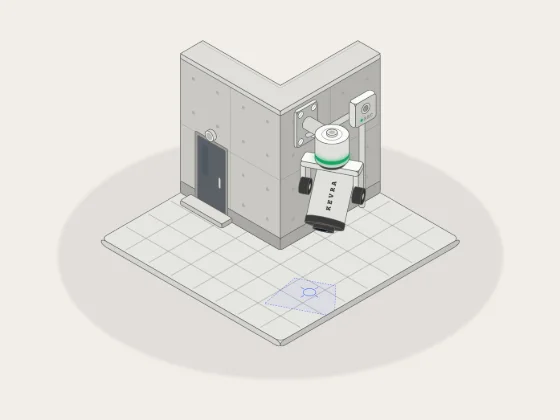
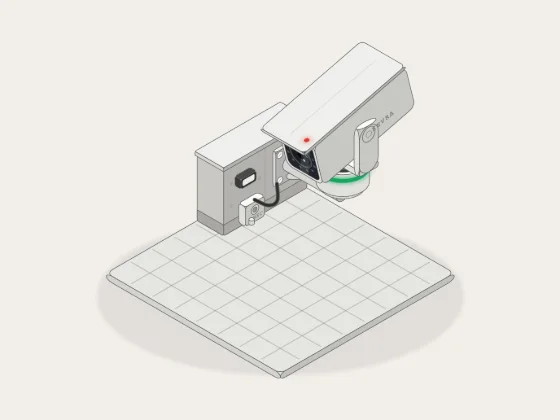
Make the security camera the hero of its miniature
In review the concrete corner and the paving filled the frame, and the
head read as a box on cart wheels or a hanging canister. The camera is
now about twice the size, standing on its bracket so its silhouette
reads against the stage. It has a classic PTZ housing: a long body under
an overhanging sun shield, a dark glass front with the lens and infrared
ring, and pivot caps flush with the yoke arms. One low wall section is
left for context, and a floodlight replaces the door.

Home and privacy face along the wall, which shows the glass and the
shutter. The patrol dips so the field of view sweeps the yard. The brand
is in the house's small type. The floor shadow sits under the slab like
the other miniatures', and the field of view is bolder in the dark. The
head cable runs inside the yoke, so it can't read as a hook. Behavior is
unchanged; tests follow the new home pose.

diff --git a/packages/miniatures/src/figures/security-camera.ts b/packages/miniatures/src/figures/security-camera.ts
@@ -4,42 +4,39 @@
  * (FigureModule). */
 import type { FigureEnv, FigureModule } from '../engine/types'
 
-const css = `:root{color-scheme:light dark;--bg:#f4f3ef;--ink:#323232;--muted:#808080;--top:#fafaf8;--body:#e0e0dc;--side:#c7c7c3;--base:#b6b6b3;--recess:#9d9d99;--glass:#ededeb;--line:#626260;--accent:#3b5bfd;--rule:#d6d6d2;--shadow:#262626;--off:#b9b9b5;--ok:#15a65e;--warn:#e88a00;--fault:#e3372d;--metal:#d6d6d2;--metal-top:#efefec;--metal-side:#b4b4b1;--rubber:#2e2e2d;--dk:#3a3a39;--dk-top:#4a4a48;--dk-side:#2d2d2c;--conc:#c9c8c3;--conc-top:#dfdeda;--conc-side:#b3b2ad;--plinth:#a9a8a4;--roof:#a3a29e;--pave:#d3d3cf;--pave-top:#e6e6e2;--pave-side:#c0c0bc;--door:#5b6066;--pane:#40505a;--lens:#14171b;--lens-in:#22303a;--lens-rim:#30363d;--coat:#4f9fc4;--ir:#d02a5a;--ir-off:#6b5a5e;--warm:#ffb347;--white:#f4f6ff}
-@media(prefers-color-scheme:dark){:root{--bg:#1a1917;--ink:#e8e8e8;--muted:#929292;--rule:#32312e;--accent:#617cff;--shadow:#000;--top:#eaeae8;--body:#bdbdba;--side:#8c8c8b;--base:#999997;--recess:#6e6e6c;--glass:#c8c8c6;--off:#9b9b99;--ok:#36d886;--warn:#ffad2b;--fault:#ff4c41;--metal:#b4b4b2;--metal-top:#e0e0dd;--metal-side:#7e7e7d;--rubber:#252524;--dk:#2f2f2f;--dk-top:#454543;--dk-side:#1d1d1c;--conc:#a9a8a5;--conc-top:#d1d0cc;--conc-side:#7d7d7b;--plinth:#8e8d8a;--roof:#8d8c89;--pave:#b2b2af;--pave-top:#d7d7d3;--pave-side:#878786;--door:#4c5053;--pane:#34424b;--lens:#101215;--lens-in:#1d2830;--lens-rim:#2a2f35;--coat:#5fb0d4;--ir:#ff4d76;--ir-off:#5a4c50;--warm:#ffb04a;--line:#444443}svg{--ink:#282828;--muted:#6b6b6b}}
+const css = `:root{color-scheme:light dark;--bg:#f4f3ef;--ink:#323232;--muted:#808080;--top:#fafaf8;--body:#e0e0dc;--side:#c7c7c3;--base:#b6b6b3;--recess:#9d9d99;--glass:#ededeb;--line:#626260;--accent:#3b5bfd;--rule:#d6d6d2;--shadow:#262626;--off:#b9b9b5;--ok:#15a65e;--warn:#e88a00;--fault:#e3372d;--metal:#d6d6d2;--metal-top:#efefec;--metal-side:#b4b4b1;--rubber:#2e2e2d;--dk:#3a3a39;--dk-top:#4a4a48;--dk-side:#2d2d2c;--conc:#c9c8c3;--conc-top:#dfdeda;--conc-side:#b3b2ad;--plinth:#a9a8a4;--roof:#a3a29e;--pave:#d3d3cf;--pave-top:#e6e6e2;--pave-side:#c0c0bc;--front:#20252b;--lens:#14171b;--lens-in:#22303a;--lens-rim:#30363d;--coat:#4f9fc4;--ir:#d02a5a;--ir-off:#6b5a5e;--warm:#ffb347;--white:#f4f6ff}
+@media(prefers-color-scheme:dark){:root{--bg:#1a1917;--ink:#e8e8e8;--muted:#929292;--rule:#32312e;--accent:#617cff;--shadow:#000;--top:#eaeae8;--body:#bdbdba;--side:#8c8c8b;--base:#999997;--recess:#6e6e6c;--glass:#c8c8c6;--off:#9b9b99;--ok:#36d886;--warn:#ffad2b;--fault:#ff4c41;--metal:#b4b4b2;--metal-top:#e0e0dd;--metal-side:#7e7e7d;--rubber:#252524;--dk:#2f2f2f;--dk-top:#454543;--dk-side:#1d1d1c;--conc:#a9a8a5;--conc-top:#d1d0cc;--conc-side:#7d7d7b;--plinth:#8e8d8a;--roof:#8d8c89;--pave:#b2b2af;--pave-top:#d7d7d3;--pave-side:#878786;--front:#1a1d21;--lens:#101215;--lens-in:#1d2830;--lens-rim:#2a2f35;--coat:#5fb0d4;--ir:#ff4d76;--ir-off:#5a4c50;--warm:#ffb04a;--line:#444443}svg{--ink:#282828;--muted:#6b6b6b}}
 .night{--lens-in:#2c1a33;--coat:#c45bd8}
 .face{fill:var(--body);stroke:var(--line);stroke-width:1;vector-effect:non-scaling-stroke;stroke-linejoin:round}.top{fill:var(--top)}.side{fill:var(--side,var(--body))}.base{fill:var(--base)}.recess{fill:var(--recess)}.glass{fill:var(--glass)}.detail{fill:none;stroke:var(--line);stroke-width:.65;vector-effect:non-scaling-stroke;stroke-linecap:round;stroke-linejoin:round}.etch{fill:var(--muted);font:3.2px ui-monospace,monospace;letter-spacing:.45px;stroke:none}.label{fill:var(--ink);font:4px ui-monospace,monospace;letter-spacing:.6px;stroke:none}.brand{font-size:6px;letter-spacing:1.7px;font-weight:600}.brandh{font-size:3px;letter-spacing:.85px;font-weight:600}.micro{font-size:2.6px;letter-spacing:.2px}.center{text-anchor:middle}.shadow{fill:var(--shadow);opacity:.075;filter:url(#soft)}
-.metal{fill:var(--metal)}.top.metal{fill:var(--metal-top)}.side.metal{fill:var(--metal-side)}.dk{fill:var(--dk)}.top.dk{fill:var(--dk-top)}.side.dk{fill:var(--dk-side)}.rubber{fill:var(--rubber)}.conc{fill:var(--conc)}.top.conc{fill:var(--conc-top)}.side.conc{fill:var(--conc-side)}.pave{fill:var(--pave)}.top.pave{fill:var(--pave-top)}.side.pave{fill:var(--pave-side)}.plinth{fill:var(--plinth)}.roof{fill:var(--roof)}.door{fill:var(--door)}.pane{fill:var(--pane);fill-opacity:.5}
-.joint{fill:none;stroke:var(--line);stroke-width:.5;opacity:.3}.seam{fill:none;stroke:var(--line);stroke-width:.5;vector-effect:non-scaling-stroke;opacity:.55}.tie{fill:var(--recess);stroke:none;opacity:.6}
+.metal{fill:var(--metal)}.top.metal{fill:var(--metal-top)}.side.metal{fill:var(--metal-side)}.dk{fill:var(--dk)}.top.dk{fill:var(--dk-top)}.side.dk{fill:var(--dk-side)}.rubber{fill:var(--rubber)}.conc{fill:var(--conc)}.top.conc{fill:var(--conc-top)}.side.conc{fill:var(--conc-side)}.pave{fill:var(--pave)}.top.pave{fill:var(--pave-top)}.side.pave{fill:var(--pave-side)}.plinth{fill:var(--plinth)}
+.crease{fill:none;stroke:var(--line);stroke-width:.5;vector-effect:non-scaling-stroke;opacity:.45}.joint{fill:none;stroke:var(--line);stroke-width:.5;opacity:.3}.seam{fill:none;stroke:var(--line);stroke-width:.5;vector-effect:non-scaling-stroke;opacity:.55}.tie{fill:var(--recess);stroke:none;opacity:.6}
 .su,.sr,.sm{fill:none;stroke-linecap:round;stroke-linejoin:round}.su{stroke:var(--line)}.sr{stroke:var(--rubber)}.sm{stroke:var(--metal)}
 .irled{fill:var(--ir-off);stroke:none}.night .irled{fill:var(--ir);filter:url(#glow)}.priv .irled{fill:var(--ir-off);filter:none}.irhalo{fill:var(--ir);opacity:0;filter:url(#bloom)}.night .irhalo{opacity:.55}.priv .irhalo{opacity:0}
 .lensg{fill:url(#glassG);stroke:none;opacity:var(--cut,1)}.coat{fill:none;stroke:var(--coat);stroke-width:.9;stroke-linecap:round;opacity:.75}.spec{fill:#fff;opacity:.75;stroke:none}.iris{fill:#050607;stroke:none}.shutter{fill:var(--top);stroke:var(--line);stroke-width:.6;vector-effect:non-scaling-stroke}.grip{fill:none;stroke:var(--recess);stroke-width:.7;stroke-linecap:round}
-.fov{fill:var(--accent);fill-opacity:.07;stroke:var(--accent);stroke-width:.8;stroke-dasharray:2.4 2.2;stroke-linejoin:round;vector-effect:non-scaling-stroke;opacity:.85}.night .fov{fill:var(--ir);fill-opacity:.05;stroke:var(--ir)}.priv .fov,.priv .aim{opacity:0}.irpool{fill:var(--ir);opacity:0;filter:url(#bloom)}.night .irpool{opacity:.22}.priv .irpool{opacity:0}
+.fov{fill:var(--accent);fill-opacity:.07;stroke:var(--accent);stroke-width:1;stroke-dasharray:2.6 2.2;stroke-linejoin:round;vector-effect:non-scaling-stroke;opacity:.9}@media(prefers-color-scheme:dark){.fov{fill-opacity:.12;stroke-width:1.5;opacity:1}.aim{stroke-width:1.2}}.night .fov{fill:var(--ir);fill-opacity:.05;stroke:var(--ir)}.priv .fov,.priv .aim{opacity:0}.irpool{fill:var(--ir);opacity:0;filter:url(#bloom)}.night .irpool{opacity:.22}.priv .irpool{opacity:0}
 .aim{fill:none;stroke:var(--accent);stroke-width:.8;stroke-linecap:round;vector-effect:non-scaling-stroke}.night .aim{stroke:var(--ir)}.det{fill:none;stroke:var(--warn);stroke-width:1.2;stroke-linecap:round;vector-effect:non-scaling-stroke;opacity:0}
 .lamp{fill:var(--off);stroke:none}.lamp.g{fill:var(--ok)}.lamp.a{fill:var(--warn)}.lamp.r{fill:var(--fault)}.lamp.b{fill:var(--accent)}.lamp.w{fill:var(--warm)}.lamp.i{fill:var(--ir)}.lamp.g,.lamp.a,.lamp.r,.lamp.b,.lamp.w,.lamp.i{filter:url(#glow)}.halo{opacity:0;filter:url(#bloom)}.halo.w{fill:var(--warm);opacity:.6}.halo.r{fill:var(--fault);opacity:.45}
 .sring{fill:var(--off);stroke:none}.sring.g{fill:var(--ok)}.sring.b{fill:var(--accent)}.sring.a{fill:var(--warn)}.sring.w{fill:var(--white)}.sring.g,.sring.b,.sring.a,.sring.w{filter:url(#glow)}
-.pool{opacity:0}.wash{opacity:0}
+.pool{opacity:0}.flood{fill:var(--glass);stroke:var(--line);stroke-width:.5;vector-effect:non-scaling-stroke}.flood.w{fill:var(--warm);filter:url(#glow)}.glassfront{fill:var(--front);stroke:var(--line);stroke-width:.6;vector-effect:non-scaling-stroke}.glint{fill:#fff;opacity:.12;stroke:none}
 .control{cursor:pointer;outline:none}.hit{fill:transparent;stroke:none}.focus-ring{fill:none;stroke:var(--accent);stroke-width:1.3;vector-effect:non-scaling-stroke;opacity:0;pointer-events:none}.control:focus-visible .focus-ring{opacity:1}
 /* dark v2: night studio */:root{--stage-ink:var(--ink);--stage-muted:var(--muted)}.stage-contact,.stage-pool{display:none}@media(prefers-color-scheme:dark){.stage-floor,.stage-pool{fill:url(#stage-floor-fill);stroke:none;opacity:1;filter:none;transform:scale(1.5);transform-box:fill-box;transform-origin:center}.stage-pool{display:inline}.stage-contact{display:inline;fill:url(#stage-contact-fill);stroke:none;opacity:1;filter:none;transform:scale(.9);transform-box:fill-box;transform-origin:center}}`
 
 const defs = `<radialGradient id="glassG" cx=".4" cy=".36" r=".72"><stop offset="0" style="stop-color:var(--lens-in)"/><stop offset=".7" style="stop-color:var(--lens)"/><stop offset="1" style="stop-color:var(--lens-rim)"/></radialGradient>
 <radialGradient id="warmG"><stop offset="0" style="stop-color:var(--warm);stop-opacity:.6"/><stop offset="1" style="stop-color:var(--warm);stop-opacity:0"/></radialGradient>
-<linearGradient id="washG" x1="0" y1="0" x2="0" y2="1"><stop offset="0" style="stop-color:var(--warm);stop-opacity:.45"/><stop offset="1" style="stop-color:var(--warm);stop-opacity:0"/></linearGradient>
-<clipPath id="lensClip"><circle r="8.2"/></clipPath>`
+<clipPath id="frontClip"><rect x="1.2" y="1.2" width="16.6" height="18.6" rx="2.6"/></clipPath>`
 
 function draw(env: FigureEnv): void {
 const{document,window,matchMedia,requestAnimationFrame,cancelAnimationFrame,setTimeout,clearTimeout,setInterval,clearInterval,addEventListener,removeEventListener,kit}=env;
-/* KEVRA PT–4 on a building corner. World: x lower-right, y lower-left, z up; pan from the corner's diagonal (+x+y), tilt from the horizon.
+/* KEVRA PT–4 on a wall section. World: x lower-right, y lower-left, z up; pan from the diagonal (+x+y), tilt from the horizon.
 Part                        x      y      z      w      d      h
-yard slab                   0      0     −3    104    104      3   paving joints; the field of view lands on it
-walls                       0      0      0     58     58     70   an L, 12 thick: panels, tie holes, plinth, coping
-door + step                10     58      0     16      –     34   vision panel, handle; security lamp above at z 38.5
-wall plate                 58     38     48    1.6     12     18   on the right face, four screws
-arm + brace            r 2.8  59.6 → 74 at y 44, z 58             brace from the plate's foot
-conduit + junction box     58      6     43    3.6     12     12   privacy key switch, REC lamp; drip loop from the plate
-pan unit               r 7     74     44   47.4      –      –     12   status ring, day/night sensor on top
-yoke                    crossbar 25 × 7 × 2.6 under the pan unit, arms to the tilt axis at 74 44 31, knobs
-head                    r 8, −11 … +15 along the look axis; bezel, IR ring, REC light, lens barrel, privacy shutter
-Painter order: yard, field of view, walls, door, plate, conduit and box, arm; far yoke arm, head, near arm, crossbar, pan unit; controls. */
+yard slab                   0      0     −3     92     92      3   paving joints; the field of view lands on it
+wall section                0      0      0     14     44     30   panel seam, tie holes, plinth, coping; floodlight at y 30
+wall plate                 14      4     10    1.6     14     16   four screws; drip loop to the junction box at y 26
+arm + brace            r 3.4  15.6 → 44 at y 11, z 18             day/night sensor on top at x 23
+pan unit               r 10    44     11   23.6      –      –     10   on a mounting disc; status ring
+yoke                    crossbar 27.6 × 10 × 2.8 above the pan unit, arms up to the tilt axis at 44 11 52, flush pivot caps
+housing                 50 × 19 × 21 along the look axis; dark glass front with lens, IR ring and shutter; sun shield 55 × 23 on standoffs
+Painter order: yard, field of view, wall, floodlight, plate, junction box, arm, pan unit; crossbar, far arm, housing, sun shield, near arm; controls. */
 const svg=document.getElementById('machine');let root=document.getElementById('drawing');
 const{NS,C,S,OX,OY,P,matrix,set,TOP,FRONT,SIDE,el,group,rect,circle,line,text,poly,wire,box,ellipse,cylinder,slits,screw,frame}=kit(()=>root);
 // Family helpers: vectors, oriented planes, round parts on any axis, oriented boxes, outlined strokes, lamps and controls.
@@ -59,57 +56,52 @@ function lamp(g,x,y,r=1){const n=circle(g,x,y,r,'lamp');n._c='';return n;}
 function lit(n,c,base='lamp'){if(n&&n._c!==c){n._c=c;set(n,'class',base+(c?' '+c:''));}}
 function bind(g,fn){g.addEventListener('click',fn);g.addEventListener('keydown',e=>{if(e.key==='Enter'||e.key===' '){e.preventDefault();e.stopPropagation();if(!e.repeat)fn();}});}
 function button(g,attrs){for(const[k,v]of Object.entries({class:'control',role:'button',tabindex:'0',...attrs}))set(g,k,v);return g;}
-// Ground: the yard's paving, then the layer the field of view, the IR flood and the lamp's pool draw on, clipped to it.
-const sh=P(54,54,-3);el('ellipse',{cx:f2(sh[0]),cy:f2(sh[1]+4),rx:112,ry:62,class:'shadow stage-floor'});el('ellipse',{cx:f2(sh[0]),cy:f2(sh[1]+4),rx:112,ry:62,class:'stage-contact'});
-box(0,0,-3,104,104,3,3,'pave');const yt=group(TOP(0,0,.02));for(let k=13;k<104;k+=13){line(yt,k,1.5,k,102.5,'joint');line(yt,1.5,k,102.5,k,'joint');}
-el('path',{d:poly([[0,0,0],[104,0,0],[104,104,0],[0,104,0]],true)},el('clipPath',{id:'yard'},svg.querySelector('defs')));
-const fovG=el('g',{'clip-path':'url(#yard)'}),pool=el('ellipse',{cx:18.5,cy:68,rx:15,ry:9.5,fill:'url(#warmG)',class:'pool'},group(TOP(0,0,.04),fovG)),irPool=el('path',{class:'irpool'},fovG),fov=el('path',{class:'fov'},fovG);
-const aimG=el('g',{},fovG);circle(aimG,0,0,2.6,'aim');for(const[a,b,c,d]of[[-5,0,-3.4,0],[3.4,0,5,0],[0,-5,0,-3.4],[0,3.4,0,5]])line(aimG,a,b,c,d,'aim');
+// Ground: the yard's paving and the layer the field of view, the IR flood and the floodlight's pool draw on, clipped to it.
+const sh=P(46,46,-3);el('ellipse',{cx:f2(sh[0]),cy:f2(sh[1]+8),rx:84,ry:36,class:'shadow stage-floor'});el('ellipse',{cx:f2(sh[0]),cy:f2(sh[1]+8),rx:84,ry:36,class:'stage-contact'});
+box(0,0,-3,92,92,3,3,'pave');const yt=group(TOP(0,0,.02));for(let k=11.5;k<92;k+=11.5){line(yt,k,1.5,k,90.5,'joint');line(yt,1.5,k,90.5,k,'joint');}
+el('path',{d:poly([[0,0,0],[92,0,0],[92,92,0],[0,92,0]],true)},el('clipPath',{id:'yard'},svg.querySelector('defs')));
+const fovG=el('g',{'clip-path':'url(#yard)'}),pool=el('ellipse',{cx:30,cy:34,rx:15,ry:10,fill:'url(#warmG)',class:'pool'},group(TOP(0,0,.04),fovG)),irPool=el('path',{class:'irpool'},fovG),fov=el('path',{class:'fov'},fovG);
+const aimG=el('g',{},fovG);circle(aimG,0,0,2.8,'aim');for(const[a,b,c,d]of[[-5.4,0,-3.6,0],[3.6,0,5.4,0],[0,-5.4,0,-3.6],[0,3.6,0,5.4]])line(aimG,a,b,c,d,'aim');
 const detG=el('g',{class:'det'},aimG);for(const[sx,sy]of[[-1,-1],[1,-1],[1,1],[-1,1]])el('path',{d:`M${sx*9},${sy*5.5}L${sx*9},${sy*9}L${sx*5.5},${sy*9}`},detG);
-// Building corner: two concrete walls meeting at the corner, panels with tie holes, plinth and coping; the door, its step and the security lamp.
-const fw=group(FRONT(0,58,70)),rw=group(SIDE(58,58,70));for(const g of[rw,fw])rect(g,0,0,58,70,1.2,'face conc'+(g===rw?' side':''));
-el('path',{d:poly([[0,45,70],[45,45,70],[45,0,70],[58,0,70],[58,58,70],[0,58,70]],true),class:'face top conc'});
-el('path',{d:poly([[0,46.5,70.05],[46.5,46.5,70.05],[46.5,0,70.05]]),class:'seam'});
-for(const[g,door]of[[fw,1],[rw,0]]){rect(g,0,64,58,6,1,'face plinth');rect(g,0,0,58,2.4,.8,'face metal');line(g,0,35,58,35,'seam');line(g,29,2.4,29,64,'seam');
-for(const u of[7.5,21.5,36.5,50.5])for(const v of[9,26,43,58])if(!(door&&u>6&&u<29&&v>30))circle(g,u,v,.85,'tie');}
-rect(fw,8.5,34.5,19,35.5,.8,'face recess');rect(fw,10,36,16,34,.5,'face door');rect(fw,12.6,39,3.2,15,.6,'pane');rect(fw,22,51,1.4,5.6,.7,'face metal');line(fw,10,66.4,26,66.4,'seam');
-const wash=el('path',{d:'M16.5,34L20.5,34L27.5,69.5L9.5,69.5Z',fill:'url(#washG)',class:'wash'},fw);
-box(6,58,0,24,6,2.2,.8,'conc');const lampC=cylinder(18.5,58,38.5,2.4,1.8,'y','metal');const doorLamp=lamp(lampC.face,0,0,1.7),dq=P(18.5,59.8,38.5),doorHalo=el('circle',{cx:f2(dq[0]),cy:f2(dq[1]),r:8,class:'halo'});
-// Right face: the camera's wall plate, a drip loop into the conduit, the junction box with the privacy key switch.
-box(58,38,48,1.6,12,18,1.4,'metal');const mp=group(SIDE(59.6,50,66));for(const[u,v]of[[2.2,2.2],[9.8,2.2],[2.2,15.8],[9.8,15.8]])screw(mp,u,v);
-tube(root,[59.4,18,49],[59.4,30.5,49],1.2,'metal');tube(root,[59.4,12,0],[59.4,12,44],1.2,'metal');
-box(58,6,43,3.6,12,12,1.4,'');const jb=group(SIDE(61.6,18,55));circle(jb,6,4.8,2.4,'face metal');circle(jb,6,4.8,1.3,'face recess');line(jb,6,3.9,6,5.7);const boxLamp=lamp(jb,3.6,9.6,.65);text(jb,5,10.5,'REC','etch micro');
-sk(smooth([[59.6,39,50.5],[61.6,37,46.5],[61.8,33.4,46],[60.2,30.5,49]]),1.2,'sr');
-tube(root,[59.6,44,51.6],[66.5,44,57.4],.85,'metal');tube(root,[59.6,44,58],[74,44,58],2.8,'metal');
-// The moving head, rebuilt in painter order as it pans and tilts; the pan unit above it is static.
-const L={far:el('g',{}),cab0:el('g',{}),head:el('g',{}),cab1:el('g',{}),near:el('g',{}),yoke:el('g',{})};
-const panG=into(el('g',{}));cylinder(74,44,45.6,5.8,1.8,'z','dk');const pu=cylinder(74,44,47.4,7,12,'z','');circle(pu.face,0,0,4.2,'detail');const ring=band(panG,[74,44,49],[74,44,50.6],7.1,'sring');set(ring,'class','sring');ring._c='';
-const sens=cylinder(74,44,59.4,2.2,1,'z','glass'),photo=lamp(sens.face,0,0,1.25);into(draw);
-const PIV=[74,44],TZ=31,HOME=45,Z=[1,2,4],LB=[1.8,4,7.4],REST=[18,-46],P0=4.487;
+// Wall: one low concrete section with tie holes, plinth and coping; a floodlight near its end.
+box(0,0,0,14,44,30,1.2,'conc');const rw=group(SIDE(14,44,30)),ew=group(FRONT(0,44,30));for(const[g,w]of[[rw,44],[ew,14]])rect(g,0,25,w,5,.8,'face plinth');
+line(rw,22,0,22,25,'seam');for(const[u,v]of[[4,8],[4,18],[19,13],[42,8],[42,18]])circle(rw,u,v,.85,'tie');box(-.6,-.6,30,15.2,45.2,1.8,.6,'metal');
+box(14,30,20,3.2,8,4.4,1,'dk');const flood=el('rect',{x:.8,y:.8,width:6.4,height:2.8,rx:.8,class:'flood'},group(SIDE(17.2,38,24.4)));flood._c='';const fq=P(17.4,34,22.2),floodHalo=el('circle',{cx:f2(fq[0]),cy:f2(fq[1]),r:9,class:'halo'});
+// Bracket: the wall plate, a drip loop down to the junction box with the privacy key switch, the arm and its brace, the day/night sensor.
+box(14,4,10,1.6,14,16,1.4,'metal');const mp=group(SIDE(15.6,18,26));for(const[u,v]of[[2.2,2.2],[11.8,2.2],[2.2,13.8],[11.8,13.8]])screw(mp,u,v);
+box(14,26,2,3.6,10,9,1.3,'');const jb=group(SIDE(17.6,36,11));circle(jb,5,3.6,2,'face metal');circle(jb,5,3.6,1.1,'face recess');line(jb,5,2.9,5,4.3);const boxLamp=lamp(jb,2.6,7.1,.55);text(jb,4,7.8,'REC','etch micro');tube(root,[15.8,31,0],[15.8,31,2],1,'metal');
+sk(smooth([[15.6,17.4,11.4],[18.4,20,6.4],[18.2,24.6,6.4],[16.4,30,10.8]]),1.1,'sr');
+tube(root,[15.6,11,11.6],[26,11,16.6],1.1,'metal');tube(root,[15.6,11,18],[44,11,18],3.4,'metal');const sens=cylinder(23,11,21.3,2.1,1.1,'z','glass'),photo=lamp(sens.face,0,0,1.2);
+// Pan unit with its status ring on a mounting disc; above it the yoke, the housing and its sun shield, rebuilt in painter order as it moves.
+cylinder(44,11,21.4,8.4,2.2,'z','metal');const pu=cylinder(44,11,23.6,10,10,'z','');const ring=band(root,[44,11,29.8],[44,11,31.6],10.1,'sring');set(ring,'class','sring');ring._c='';cylinder(44,11,33.6,8.4,1.2,'z','dk');
+const L={yoke:el('g',{}),far:el('g',{}),head:el('g',{}),hood:el('g',{}),near:el('g',{})};
+const PIV=[44,11],TZ=52,HOME=45,Z=[1,2,4],LB=[0,1,2.6],REST=[45,-14],P0=5.27,TILT=[-38,20];
 let[pan,tilt]=REST,vp=0,vt=0,[tp,tt]=REST,zi=0,lb=LB[0],zNow=1,shut=0,iris=1.4,night=false,privacy=false,events=0;
 let ptr=null,lostUntil=0,manual=null,manualAt=-1e9,lastMove=null,speed=0,patrolT=P0,twitchT=-1e9,motionT=-1e9,snapT=-1e9,cutT=-1e9,lampT=-1e9,flash='',flashT=0,last=0,lastUI=-1,drawn='',mode='PATROL',rec=null,cutV='1';
 function pose(){const p=(HOME+pan)*RAD,t=tilt*RAD,g=[Math.cos(p),Math.sin(p),0],s=[-Math.sin(p),Math.cos(p),0],f=[Math.cos(t)*g[0],Math.cos(t)*g[1],Math.sin(t)],u=[-Math.sin(t)*g[0],-Math.sin(t)*g[1],Math.cos(t)];return{g,s,f,u,T:[PIV[0],PIV[1],TZ]};}
-function assemble(){const{g,s,f,u,T}=pose(),F=add(T,mul(f,15)),B=add(T,mul(f,-11)),near=dot(s,VIEW)>=0?1:-1,front=dot(f,VIEW)>0;for(const k in L)L[k].replaceChildren();
-for(const side of[-near,near]){const gp=side===near?L.near:L.far;obox(gp,add(add(T,mul(s,side*11.4)),[0,0,6.4]),g,s,[0,0,1],7,2.2,16.4,'',1.1);const k=tube(gp,add(T,mul(s,side*9.6)),add(T,mul(s,side*13.4)),3.4,'dk');circle(k,0,0,1.3,'face metal');}
-obox(L.yoke,[T[0],T[1],TZ+13.35],s,g,[0,0,1],25,7,2.6,'',1.2);
-const barrel=()=>{const c=tube(L.head,F,add(F,mul(f,lb)),4.4,'dk');if(c.front){circle(c,0,0,3.7,'lensg');el('path',{d:'M-2.5,-1.5A2.9,2.9 0 0 1 .6,-2.9',class:'coat'},c);circle(c,0,0,iris,'iris');circle(c,-1.15,-1.35,.5,'spec');circle(c,0,0,4.4,'detail');}};
-if(!front)barrel();
-const c=tube(L.head,B,F,8,'');if(c.front){circle(c,0,0,8,'face dk');circle(c,0,0,6.9,'detail');circle(c,0,0,7.6,'irhalo');for(let i=0;i<12;i++){const a=(i*30+15)*RAD;circle(c,5.75*Math.cos(a),5.75*Math.sin(a),.55,'irled');}const ru=[dot(u,c.U),dot(u,c.V)];rec=lamp(c,ru[0]*7.35-ru[1]*2.2,ru[1]*7.35+ru[0]*2.2,.5);}
-else{circle(c,0,0,5,'detail');const q=[-dot(u,c.U)*3.4,-dot(u,c.V)*3.4];circle(c,q[0],q[1],1.6,'face rubber');circle(c,q[0],q[1],.65,'face dk');}
-band(L.head,add(F,mul(f,-2.6)),F,8.25,'dk');band(L.head,add(B,mul(f,2.2)),add(B,mul(f,2.9)),8.1,'dk');
-const vs=unit(sub(VIEW,mul(f,dot(VIEW,f)))),tw=P(...f)[0]>=0?f:mul(f,-1);let w2=unit(cross(tw,vs));if(P(...w2)[1]<0)w2=mul(w2,-1);const tg=group(plane(add(add(T,mul(vs,8.05)),add(mul(f,2.8),mul(tw,-6.6))),tw,w2),L.head);text(tg,0,1,'KEVRA','label brandh');rec=null;
-if(front){barrel();const sp=group(plane(add(F,mul(f,lb+.35)),c.U,c.V),L.head),cl=el('g',{'clip-path':'url(#lensClip)'},sp),x0=-8.4-(1-shut)*16.8;rect(cl,x0,-8.4,16.8,16.8,1.4,'shutter');line(cl,x0+14.6,-5.6,x0+14.6,5.6,'grip');line(cl,x0+13,-5.6,x0+13,5.6,'grip');}
-const back=add(B,mul(u,-3)),cab=sk(smooth([back,add(back,add(mul(f,-4.5),[0,0,-1.2])),add(add(T,mul(g,-6.5)),[0,0,7]),[T[0]-g[0]*3.5,T[1]-g[1]*3.5,TZ+12]]),1.2,'sr',front?L.cab0:L.cab1);
-const hc=P(...add(T,mul(f,4)));for(const n of[hHit,hRing]){set(n,'cx',f2(hc[0]));set(n,'cy',f2(hc[1]));}
+/* The text frame on a face: reads left to right and upright on screen whichever way the head turns. */
+function upright(o,a,b){const Y=P(...b)[1]>0?b:mul(b,-1),pa=P(...a),py=P(...Y),X=pa[0]*py[1]-pa[1]*py[0]>0?a:mul(a,-1);return group(plane(o,X,Y));}
+function assemble(){const{g,s,f,u,T}=pose(),near=dot(s,VIEW)>=0?1:-1;for(const k in L)L[k].replaceChildren();
+obox(L.yoke,[T[0],T[1],36.2],s,g,[0,0,1],27.6,10,2.8,'',1.2);
+for(const side of[-near,near])for(const fc of obox(side===near?L.near:L.far,[T[0]+s[0]*side*12.4,T[1]+s[1]*side*12.4,45.4],g,s,[0,0,1],10,2.8,21.2,'',5))if(fc.i===1&&fc.s===side){circle(fc.f,17.2,5,3.3,'face '+shade(fc.n));circle(fc.f,17.2,5,1.4,'detail');}
+const gl=4.8+lb*.35;for(const fc of obox(L.head,add(T,mul(f,-2)),f,s,u,50,19,21,'',3)){
+if(fc.i===0&&fc.s>0){const e=fc.f;rect(e,1.2,1.2,16.6,18.6,2.6,'glassfront');circle(e,9.5,10.5,8.2,'irhalo');for(let i=0;i<12;i++){const a=(i*30+15)*RAD;circle(e,9.5+7.2*Math.cos(a),10.5+7.2*Math.sin(a),.6,'irled');}
+circle(e,9.5,10.5,gl+.9,'face dk');circle(e,9.5,10.5,gl,'lensg');el('path',{d:`M${f2(9.5-gl*.75)},${f2(10.5+gl*.3)}A${f2(gl*.8)},${f2(gl*.8)} 0 0 0 ${f2(9.5-gl*.1)},${f2(10.5+gl*.78)}`,class:'coat'},e);circle(e,9.5,10.5,iris,'iris');circle(e,9.5-gl*.32,10.5-gl*.35,.6,'spec');
+const cl=el('g',{'clip-path':'url(#frontClip)'},e);el('path',{d:'M2,19.8H6.4L12,1.2H7.6Z',class:'glint'},cl);const x0=1.2-(1-shut)*16.6;rect(cl,x0,1.2,16.6,18.6,2.4,'shutter');for(const k of[13.4,14.9])line(cl,x0+k,4,x0+k,17,'grip');}
+else if(fc.i===0){circle(fc.f,9.5,5.4,1.9,'face rubber');circle(fc.f,9.5,5.4,.8,'face dk');}
+else if(fc.i===1)text(upright(add(add(T,mul(fc.n,9.56)),add(mul(f,-11),mul(u,-4.6))),f,mul(u,-1)),0,1,'KEVRA','etch center');}
+for(const k of[-12,12])obox(L.hood,add(add(T,mul(f,k)),mul(u,11.35)),f,s,u,5,11,1.7,'dk',.6);
+const top=obox(L.hood,add(add(T,mul(f,2)),mul(u,12.9)),f,s,u,55,23,1.4,'metal',2).find(h=>h.i===2&&h.s>0);rec=null;if(top){line(top.f,4,11.5,51,11.5,'crease');rec=lamp(top.f,49.5,4,1.05);}
+const hc=P(...add(T,mul(f,2)));for(const n of[hHit,hRing]){set(n,'cx',f2(hc[0]));set(n,'cy',f2(hc[1]));}
 // Field of view: the four frustum rays on the yard (capped far out), the aim point at the center.
-const Lp=add(T,mul(f,15+lb)),hh=Math.tan(23/zNow*RAD),vh=Math.tan(15/zNow*RAD),pts=[];for(const[a,b]of[[-1,1],[1,1],[1,-1],[-1,-1]]){const r=add(f,add(mul(s,a*hh),mul(u,b*vh))),k=r[2]<-1e-3?Math.min(-Lp[2]/r[2],170):170,q=add(Lp,mul(r,k));q[2]=0;pts.push(q);}
+const Lp=add(T,mul(f,23)),hh=Math.tan(23/zNow*RAD),vh=Math.tan(15/zNow*RAD),pts=[];for(const[a,b]of[[-1,1],[1,1],[1,-1],[-1,-1]]){const r=add(f,add(mul(s,a*hh),mul(u,b*vh))),k=r[2]<-1e-3?Math.min(-Lp[2]/r[2],170):170,q=add(Lp,mul(r,k));q[2]=0;pts.push(q);}
 const ka=f[2]<-1e-3?-Lp[2]/f[2]:1e9,on=ka<170,d=on?poly(pts,true):'';set(fov,'d',d);set(irPool,'d',d);fov.style.opacity=on?'':'0';
 if(on){const A=add(Lp,mul(f,ka));set(aimG,'transform',TOP(A[0],A[1],.05));aimG.style.opacity='';}else aimG.style.opacity='0';}
-// Controls on top: the head takes a snapshot, the pan unit's sensor switches night vision, the junction box closes the shutter.
-const hBtn=button(el('g',{}),{'aria-label':'Take a snapshot (Space)'}),hHit=el('circle',{r:14,class:'hit'},hBtn),hRing=el('circle',{r:15.5,class:'focus-ring'},hBtn);
-const pq=P(74,44,54),nBtn=button(el('g',{}),{'aria-label':'Night vision (N)','aria-pressed':'false'});el('circle',{cx:f2(pq[0]),cy:f2(pq[1]),r:9,class:'hit'},nBtn);el('circle',{cx:f2(pq[0]),cy:f2(pq[1]),r:10,class:'focus-ring'},nBtn);
-const bBtn=button(el('g',{}),{'aria-label':'Privacy shutter (P)','aria-pressed':'false'}),bq=group(SIDE(61.6,18,55),bBtn);rect(bq,-1.5,-1.5,15,15,2,'hit');rect(bq,-1,-1,14,14,2,'focus-ring');
-frame([[0,0,-3,104,104,3],[0,0,0,58,58,70]],12);
+// Controls on top: the head takes a snapshot, the sensor switches night vision, the junction box closes the shutter.
+const hBtn=button(el('g',{}),{'aria-label':'Take a snapshot (Space)'}),hHit=el('circle',{r:20,class:'hit'},hBtn),hRing=el('circle',{r:21.5,class:'focus-ring'},hBtn);
+const pq=P(23,11,22.4),nBtn=button(el('g',{}),{'aria-label':'Night vision (N)','aria-pressed':'false'});el('circle',{cx:f2(pq[0]),cy:f2(pq[1]),r:6.5,class:'hit'},nBtn);el('circle',{cx:f2(pq[0]),cy:f2(pq[1]),r:7.5,class:'focus-ring'},nBtn);
+const bBtn=button(el('g',{}),{'aria-label':'Privacy shutter (P)','aria-pressed':'false'}),bq=group(SIDE(17.6,36,11),bBtn);rect(bq,-1.5,-1.5,13,12,2,'hit');rect(bq,-1,-1,12,11,2,'focus-ring');
+frame([[0,0,-3,92,92,3],[0,0,0,14,44,32],[16,-17,30,56,56,40]],10);
 // State: pointer tracking, patrol, manual jogs, zoom, night, privacy and snapshots; audio after a gesture.
 const reduced=matchMedia('(prefers-reduced-motion: reduce)'),readout=document.getElementById('readout'),stateLabel=document.getElementById('state'),announcement=document.getElementById('announcement');
 const say=m=>{announcement.textContent=m;},pad=n=>String(n).padStart(2,'0'),sg=v=>{const r=Math.round(v*10)/10;return(r<0?'−':'+')+Math.abs(r).toFixed(1);},hush=v=>Math.abs(Math.round(v));
@@ -121,8 +113,8 @@ function tone(f,d=.07,v=.012,w=0,type='sine'){if(!ac)return;try{const t=ac.curre
  * (the wall's side) is pushed out onto that line and the head tilts up with it, so it turns toward the pointer
  * and never into its own wall; right below the pivot the pan eases home. */
 function aimAt(x,y){const gx=(x/C+y/S)/2,gy=(y/S-x/C)/2,push=Math.max(0,PIV[0]+PIV[1]-gx-gy),dx=gx+push/2-PIV[0],dy=gy+push/2-PIV[1],rh=Math.hypot(dx,dy);
-let a=((Math.atan2(dy,dx)/RAD-HOME+540)%360)-180;a*=ramp(0,24,rh);return[clamp(a,-92,92),clamp(Math.atan2(-TZ,rh)/RAD+push*.5,-82,18)];}
-function patrolAt(t){const k=((t%17)+17)%17,e=x=>(1-Math.cos(Math.PI*x))/2,a=k<7?-1+2*e(k/7):k<8.5?1:k<15.5?1-2*e((k-8.5)/7):-1;return[a*42,REST[1]+3*Math.sin((t-P0)*.8)];}
+let a=((Math.atan2(dy,dx)/RAD-HOME+540)%360)-180;a*=ramp(0,24,rh);return[clamp(a,-92,92),clamp(Math.atan2(-TZ,rh)/RAD+push*.5,...TILT)];}
+function patrolAt(t){const k=((t%17)+17)%17,e=x=>(1-Math.cos(Math.PI*x))/2,a=k<7?-1+2*e(k/7):k<8.5?1:k<15.5?1-2*e((k-8.5)/7):-1;return[20+a*35,-22+8*Math.cos((t-P0)*.55)];}
 function local(e){const m=svg.getScreenCTM?.();if(!m)return null;const det=m.a*m.d-m.b*m.c;if(!det)return null;const x=e.clientX-m.e,y=e.clientY-m.f;return[(m.d*x-m.c*y)/det,(-m.b*x+m.a*y)/det];}
 function onPointer(e){const q=local(e);if(!q)return;const now=performance.now();
 if(lastMove){const dt=(now-lastMove.t)/1000;if(dt>.004)speed=speed*.45+Math.hypot(q[0]-lastMove.x,q[1]-lastMove.y)/dt*.55;}lastMove={x:q[0],y:q[1],t:now};
@@ -134,20 +126,20 @@ function shot(){audio();if(privacy){note('SHUTTER CLOSED · NO SNAPSHOT');say('T
 function zoomStep(){audio();if(privacy){note('SHUTTER CLOSED · ZOOM HELD');return;}zi=(zi+1)%3;note(`ZOOM ${Z[zi]}× · ${[52,26,13][zi]}° VIEW`);tone(520+zi*160,.09,.01,0,'triangle');say(`Zoom ${Z[zi]} times.`);}
 function nightToggle(){audio();night=!night;cutT=performance.now();svg.classList.toggle('night',night);set(nBtn,'aria-pressed',String(night));note(night?'IR NIGHT · CUT FILTER OUT':'DAY · CUT FILTER IN');tone(1900,.025,.012,0,'square');tone(night?640:880,.06,.008,.04);say(night?'Night vision. The infrared ring is on and the cut filter is out.':'Day mode. Infrared off, cut filter in.');}
 function privacyToggle(){audio();privacy=!privacy;svg.classList.toggle('priv',privacy);set(bBtn,'aria-pressed',String(privacy));if(privacy){zi=0;manualAt=-1e9;}note(privacy?'PRIVACY · SHUTTER CLOSED':'SHUTTER OPEN · RECORDING');tone(privacy?300:420,.12,.012,0,'triangle');say(privacy?'Privacy shutter closed. The camera is parked and not recording.':'Shutter open. Recording again.');}
-function jog(dp,dt){audio();if(privacy){note('PRIVACY · P TO OPEN');say('The privacy shutter is closed. Press P to open it.');return;}const base=performance.now()-manualAt<5000?manual:[pan,tilt];manual=[clamp(Math.round(base[0]+dp),-90,90),clamp(Math.round(base[1]+dt),-80,18)];manualAt=performance.now();ptr=null;tone(300,.05,.008,0,'triangle');say(`Pan ${hush(manual[0])} degrees ${manual[0]>0?'left':manual[0]<0?'right':'center'}, tilt ${hush(manual[1])} degrees ${manual[1]<0?'down':'up'}.`);}
+function jog(dp,dt){audio();if(privacy){note('PRIVACY · P TO OPEN');say('The privacy shutter is closed. Press P to open it.');return;}const base=performance.now()-manualAt<5000?manual:[pan,tilt];manual=[clamp(Math.round(base[0]+dp),-90,90),clamp(Math.round(base[1]+dt),...TILT)];manualAt=performance.now();ptr=null;tone(300,.05,.008,0,'triangle');say(`Pan ${hush(manual[0])} degrees ${manual[0]>0?'left':manual[0]<0?'right':'center'}, tilt ${hush(manual[1])} degrees ${manual[1]<0?'down':'up'}.`);}
 bind(hBtn,shot);bind(nBtn,nightToggle);bind(bBtn,privacyToggle);
 const act={' ':shot,z:zoomStep,n:nightToggle,p:privacyToggle,ArrowLeft:()=>jog(10,0),ArrowRight:()=>jog(-10,0),ArrowUp:()=>jog(0,5),ArrowDown:()=>jog(0,-5)};
 document.addEventListener('keydown',e=>{if(e.ctrlKey||e.metaKey||e.altKey||e.defaultPrevented)return;const k=e.key.length===1?e.key.toLowerCase():e.key;if(k===' '&&e.target.closest&&e.target.closest('button,[role=button]'))return;const fn=act[k];if(fn){e.preventDefault();if(!e.repeat||k.startsWith('Arrow'))fn();}});
 function ui(){readout.textContent=`PAN ${sg(-pan)}° · TILT ${sg(tilt)}° · ${zNow.toFixed(1)}×`;stateLabel.textContent=performance.now()<flashT?flash:privacy?'PRIVACY · SHUTTER CLOSED':`${mode} · REC · ${night?'IR NIGHT':'DAY'}`;}
 function tick(now){const dt=last?Math.min((now-last)/1000,.05):0,red=reduced.matches;last=now;
-if(privacy){mode='PRIVACY';tp=0;tt=-16;}else if(ptr){mode='TRACKING';[tp,tt]=ptr;}else if(now-manualAt<5000){mode='MANUAL';[tp,tt]=manual;}else if(now<lostUntil)mode='TARGET LOST';else if(red){mode='HOME';[tp,tt]=REST;}else{mode='PATROL';patrolT+=dt;[tp,tt]=patrolAt(patrolT);}
+if(privacy){mode='PRIVACY';tp=REST[0];tt=-10;}else if(ptr){mode='TRACKING';[tp,tt]=ptr;}else if(now-manualAt<5000){mode='MANUAL';[tp,tt]=manual;}else if(now<lostUntil)mode='TARGET LOST';else if(red){mode='HOME';[tp,tt]=REST;}else{mode='PATROL';patrolT+=dt;[tp,tt]=patrolAt(patrolT);}
 if(red){pan=tp;tilt=tt;vp=vt=0;}else{const W=8,ap=W*W*(tp-pan)-2*W*vp,at=W*W*(tt-tilt)-2*W*vt;vp=clamp(vp+ap*dt,-240,240);vt=clamp(vt+at*dt,-180,180);pan+=vp*dt;tilt+=vt*dt;}
-const tw=(now-twitchT)/1000,kick=red||tw>1.1?0:Math.exp(-tw*4.2)*Math.sin(tw*15);lb+=(LB[zi]-lb)*(red?1:1-Math.exp(-dt*9));zNow=Z[zi]*(1+.8*Math.max(0,kick))+(lb-LB[zi])*.3;
-shut=red?+privacy:clamp(shut+(privacy?dt:-dt)*3.2);const si=(now-snapT)/1000;iris=si<.22&&!red?1.4+2.3*Math.sin(Math.PI*si/.22):1.4-.5*Math.max(0,kick);
+const tw=(now-twitchT)/1000,kick=red||tw>1.1?0:Math.exp(-tw*4.2)*Math.sin(tw*15);lb+=(LB[zi]-lb)*(red?1:1-Math.exp(-dt*9));zNow=Z[zi]*(1+.8*Math.max(0,kick))+(lb-LB[zi])*.9;
+shut=red?+privacy:clamp(shut+(privacy?dt:-dt)*3.2);const si=(now-snapT)/1000;iris=si<.22&&!red?1.6+3.4*Math.sin(Math.PI*si/.22):1.6-.5*Math.max(0,kick);
 const key=[pan,tilt,lb+kick*3.2,shut,iris].map(f2).join();if(key!==drawn){drawn=key;const keep=lb;lb+=kick*3.2;assemble();lb=keep;}
 const blink=red||now%1200<760;if(rec)lit(rec,!privacy&&blink?'r':'');lit(boxLamp,privacy?'a':'g');lit(photo,night?'i':'');
 lit(ring,privacy?'':now-motionT<1300?'a':now-snapT<260?'w':mode==='TRACKING'||mode==='MANUAL'?'b':'g','sring');
-const lampOn=now-lampT<4000;lit(doorLamp,lampOn?'w':'');set(doorHalo,'class','halo'+(lampOn?' w':''));pool.style.opacity=lampOn?'.85':'0';wash.style.opacity=lampOn?'1':'0';
+const lampOn=now-lampT<4000;lit(flood,lampOn?'w':'','flood');set(floodHalo,'class','halo'+(lampOn?' w':''));pool.style.opacity=lampOn?'.85':'0';
 const da=(now-motionT)/1000;detG.style.opacity=da<1.1?f2(red?1:Math.min(1,da*8)*(1-da/1.1)):'0';if(!red)set(detG,'transform',`scale(${f2(1.25-.25*Math.min(1,da*5))})`);
 const cut=(now-cutT)/1000,cv=cut<.14&&!red?'.35':'1';if(cv!==cutV){cutV=cv;svg.style.setProperty('--cut',cv);}
 if(whir)whir.gain.setTargetAtTime(Math.min(1,(Math.abs(vp)+Math.abs(vt))/160)*.006,ac.currentTime,.06);

diff --git a/packages/miniatures/src/security-camera.test.tsx b/packages/miniatures/src/security-camera.test.tsx
@@ -45,10 +45,10 @@ describe('Security camera', () => {
   })
 
   it.each([
-    ['ArrowLeft', 'PAN −28.0° · TILT −46.0° · 1.0×'],
-    ['ArrowRight', 'PAN −8.0° · TILT −46.0° · 1.0×'],
-    ['ArrowUp', 'PAN −18.0° · TILT −41.0° · 1.0×'],
-    ['ArrowDown', 'PAN −18.0° · TILT −51.0° · 1.0×'],
+    ['ArrowLeft', 'PAN −55.0° · TILT −14.0° · 1.0×'],
+    ['ArrowRight', 'PAN −35.0° · TILT −14.0° · 1.0×'],
+    ['ArrowUp', 'PAN −45.0° · TILT −9.0° · 1.0×'],
+    ['ArrowDown', 'PAN −45.0° · TILT −19.0° · 1.0×'],
   ] as const)('%s jogs the head by hand', async (key, readout) => {
     const { snap } = await play([key])
     expect(snap().readout).toBe(readout)
@@ -57,17 +57,17 @@ describe('Security camera', () => {
 
   it('jogs add up, then it goes home again on its own', async () => {
     const { handle, run, snap } = await play(['ArrowRight', 'ArrowRight', 'ArrowUp'])
-    expect(snap().readout).toBe('PAN +2.0° · TILT −41.0° · 1.0×')
+    expect(snap().readout).toBe('PAN −25.0° · TILT −9.0° · 1.0×')
     await run(5200)
     expect(snap().state).toBe('HOME · REC · DAY')
     act(() => handle().press('ArrowLeft'))
     await run(100)
-    expect(snap().readout).toBe('PAN −28.0° · TILT −46.0° · 1.0×')
+    expect(snap().readout).toBe('PAN −55.0° · TILT −14.0° · 1.0×')
   })
 
   it('Z steps the zoom through 2× and 4× and back to 1×', async () => {
     const { handle, run, snap } = await play(['z'])
-    expect(snap().readout).toBe('PAN −18.0° · TILT −46.0° · 2.0×')
+    expect(snap().readout).toBe('PAN −45.0° · TILT −14.0° · 2.0×')
     expect(snap().state).toBe('ZOOM 2× · 26° VIEW')
     act(() => handle().press('z'))
     await run(100)
@@ -93,7 +93,7 @@ describe('Security camera', () => {
   it('P closes the privacy shutter and parks the head; P again opens it', async () => {
     const { handle, run, snap, svg, inside } = await play(['z', 'p'])
     expect(snap().state).toBe('PRIVACY · SHUTTER CLOSED')
-    expect(snap().readout).toBe('PAN +0.0° · TILT −16.0° · 1.0×')
+    expect(snap().readout).toBe('PAN −45.0° · TILT −10.0° · 1.0×')
     expect(svg()).toHaveClass('priv')
     expect(inside.querySelector('[aria-label="Privacy shutter (P)"]')).toHaveAttribute('aria-pressed', 'true')
     act(() => handle().press('p'))
@@ -114,7 +114,7 @@ describe('Security camera', () => {
       act(() => handle().press(key))
       await run(100)
       expect(snap().state).toBe(state)
-      expect(snap().readout).toBe('PAN +0.0° · TILT −16.0° · 1.0×')
+      expect(snap().readout).toBe('PAN −45.0° · TILT −10.0° · 1.0×')
     }
   })
 

diff --git a/packages/miniatures/src/meta/security-camera.ts b/packages/miniatures/src/meta/security-camera.ts
@@ -9,7 +9,7 @@ export const securityCamera = {
   study: '059',
   spec: 'PT–4 / PAN-TILT · 4× ZOOM · IR 850 NM · 30 M',
   label: 'Security camera, KEVRA PT–4',
-  description: 'A pan-tilt camera on a wall arm at the corner of a building, watching the yard: a lens with a ring of infrared LEDs and a REC light, a status ring on its pan unit, a conduit down to a junction box with a privacy key switch. It follows your pointer across the yard with a little lag, its field of view marked on the paving, and patrols left and right when the pointer leaves. A fast movement counts as motion: the lens snaps to focus, the event is logged and the door lamp comes on. The arrow keys pan and tilt it by hand, Z zooms, N switches to infrared night vision, P slides the privacy shutter over the lens and parks it, and Space takes a snapshot.',
+  description: 'A pan-tilt camera on a wall bracket, watching a paved yard: a long housing under a sun shield, a dark glass front with the lens, a ring of infrared LEDs and a REC light, a yoke on a pan unit with a status ring, and a drip loop down to a junction box with a privacy key switch. It follows your pointer across the yard with a little lag, its field of view marked on the paving, and patrols left and right when the pointer leaves. A fast movement counts as motion: the lens snaps to focus, the event is logged and the floodlight comes on. The arrow keys pan and tilt it by hand, Z zooms, N switches to infrared night vision, P slides the privacy shutter over the lens and parks it, and Space takes a snapshot.',
   keys: [
     {
       keys: ['ArrowLeft', 'ArrowUp', 'ArrowDown', 'ArrowRight'],
@@ -22,10 +22,10 @@ export const securityCamera = {
     { keys: [' '], caps: ['Space'], label: 'snapshot' },
   ],
   initial: {
-    readout: 'PAN −18.0° · TILT −46.0° · 1.0×',
+    readout: 'PAN −45.0° · TILT −14.0° · 1.0×',
     state: 'PATROL · REC · DAY',
     pressed: {},
   },
-  viewBox: '-102.06664199358161 -82 204.13328398716322 201',
+  viewBox: '-89.67433714816835 -80.5 179.3486742963367 185.5',
   progress: false,
 } as const satisfies MiniatureMeta

diff --git a/packages/miniatures/src/security-camera.tsx b/packages/miniatures/src/security-camera.tsx
@@ -12,7 +12,7 @@ export interface MiniatureSecurityCameraProps extends MiniatureProps {
 }
 
 /**
- * KEVRA PT–4, security camera. A pan-tilt camera on a wall arm at the corner of a building, watching the yard: a lens with a ring of infrared LEDs and a REC light, a status ring on its pan unit, a conduit down to a junction box with a privacy key switch. It follows your pointer across the yard with a little lag, its field of view marked on the paving, and patrols left and right when the pointer leaves. A fast movement counts as motion: the lens snaps to focus, the event is logged and the door lamp comes on. The arrow keys pan and tilt it by hand, Z zooms, N switches to infrared night vision, P slides the privacy shutter over the lens and parks it, and Space takes a snapshot.
+ * KEVRA PT–4, security camera. A pan-tilt camera on a wall bracket, watching a paved yard: a long housing under a sun shield, a dark glass front with the lens, a ring of infrared LEDs and a REC light, a yoke on a pan unit with a status ring, and a drip loop down to a junction box with a privacy key switch. It follows your pointer across the yard with a little lag, its field of view marked on the paving, and patrols left and right when the pointer leaves. A fast movement counts as motion: the lens snaps to focus, the event is logged and the floodlight comes on. The arrow keys pan and tilt it by hand, Z zooms, N switches to infrared night vision, P slides the privacy shutter over the lens and parks it, and Space takes a snapshot.
  *
  * Keys: ← ↑ ↓ → pan / tilt · Z zoom · N night vision · P privacy · Space snapshot.
  */

diff --git a/.changeset/security-camera.md b/.changeset/security-camera.md
@@ -2,4 +2,4 @@
 '@youj/miniatures': patch
 ---
 
-New miniature: the security camera, `MiniatureSecurityCamera` from `@youj/miniatures/security-camera`. A pan-tilt camera on a wall arm at a building's corner that follows your pointer across the yard, with its field of view marked on the paving, and patrols when the pointer leaves. A fast movement logs a motion event and the lens snaps to focus. The arrow keys pan and tilt it, Z zooms, N switches to infrared night vision, P slides the privacy shutter over the lens, and Space takes a snapshot. With reduced motion it holds still at home and jumps to the pointer instead of panning.
+New miniature: the security camera, `MiniatureSecurityCamera` from `@youj/miniatures/security-camera`. A pan-tilt camera on a wall bracket that follows your pointer across the yard, with its field of view marked on the paving, and patrols when the pointer leaves. A fast movement logs a motion event and the lens snaps to focus. The arrow keys pan and tilt it, Z zooms, N switches to infrared night vision, P slides the privacy shutter over the lens, and Space takes a snapshot. With reduced motion it holds still at home and jumps to the pointer instead of panning.
